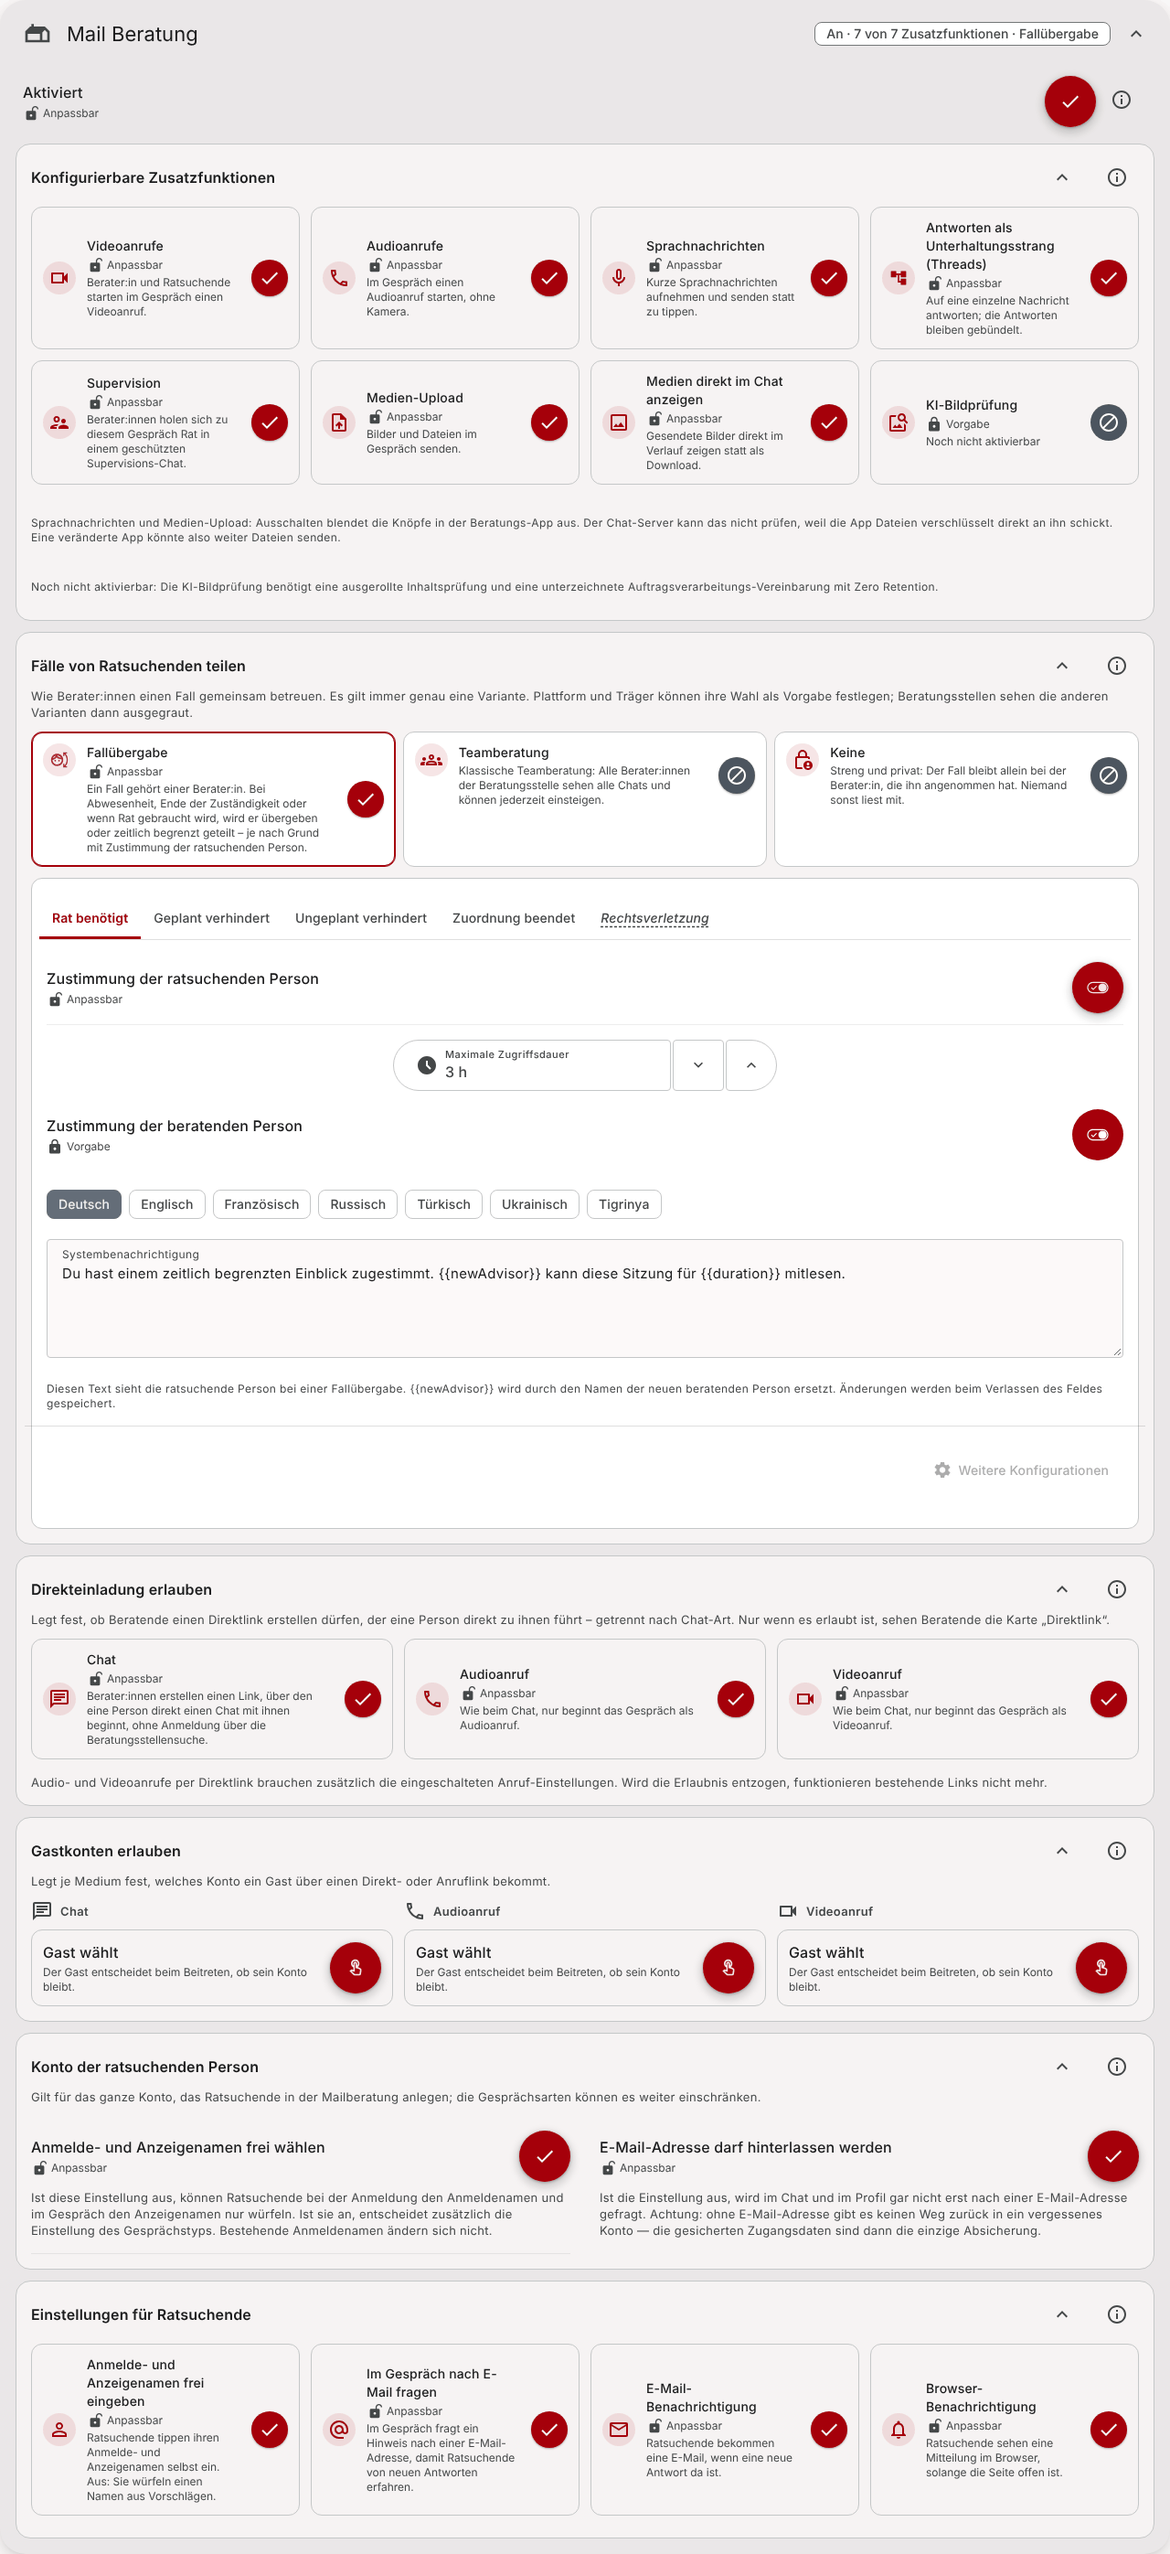
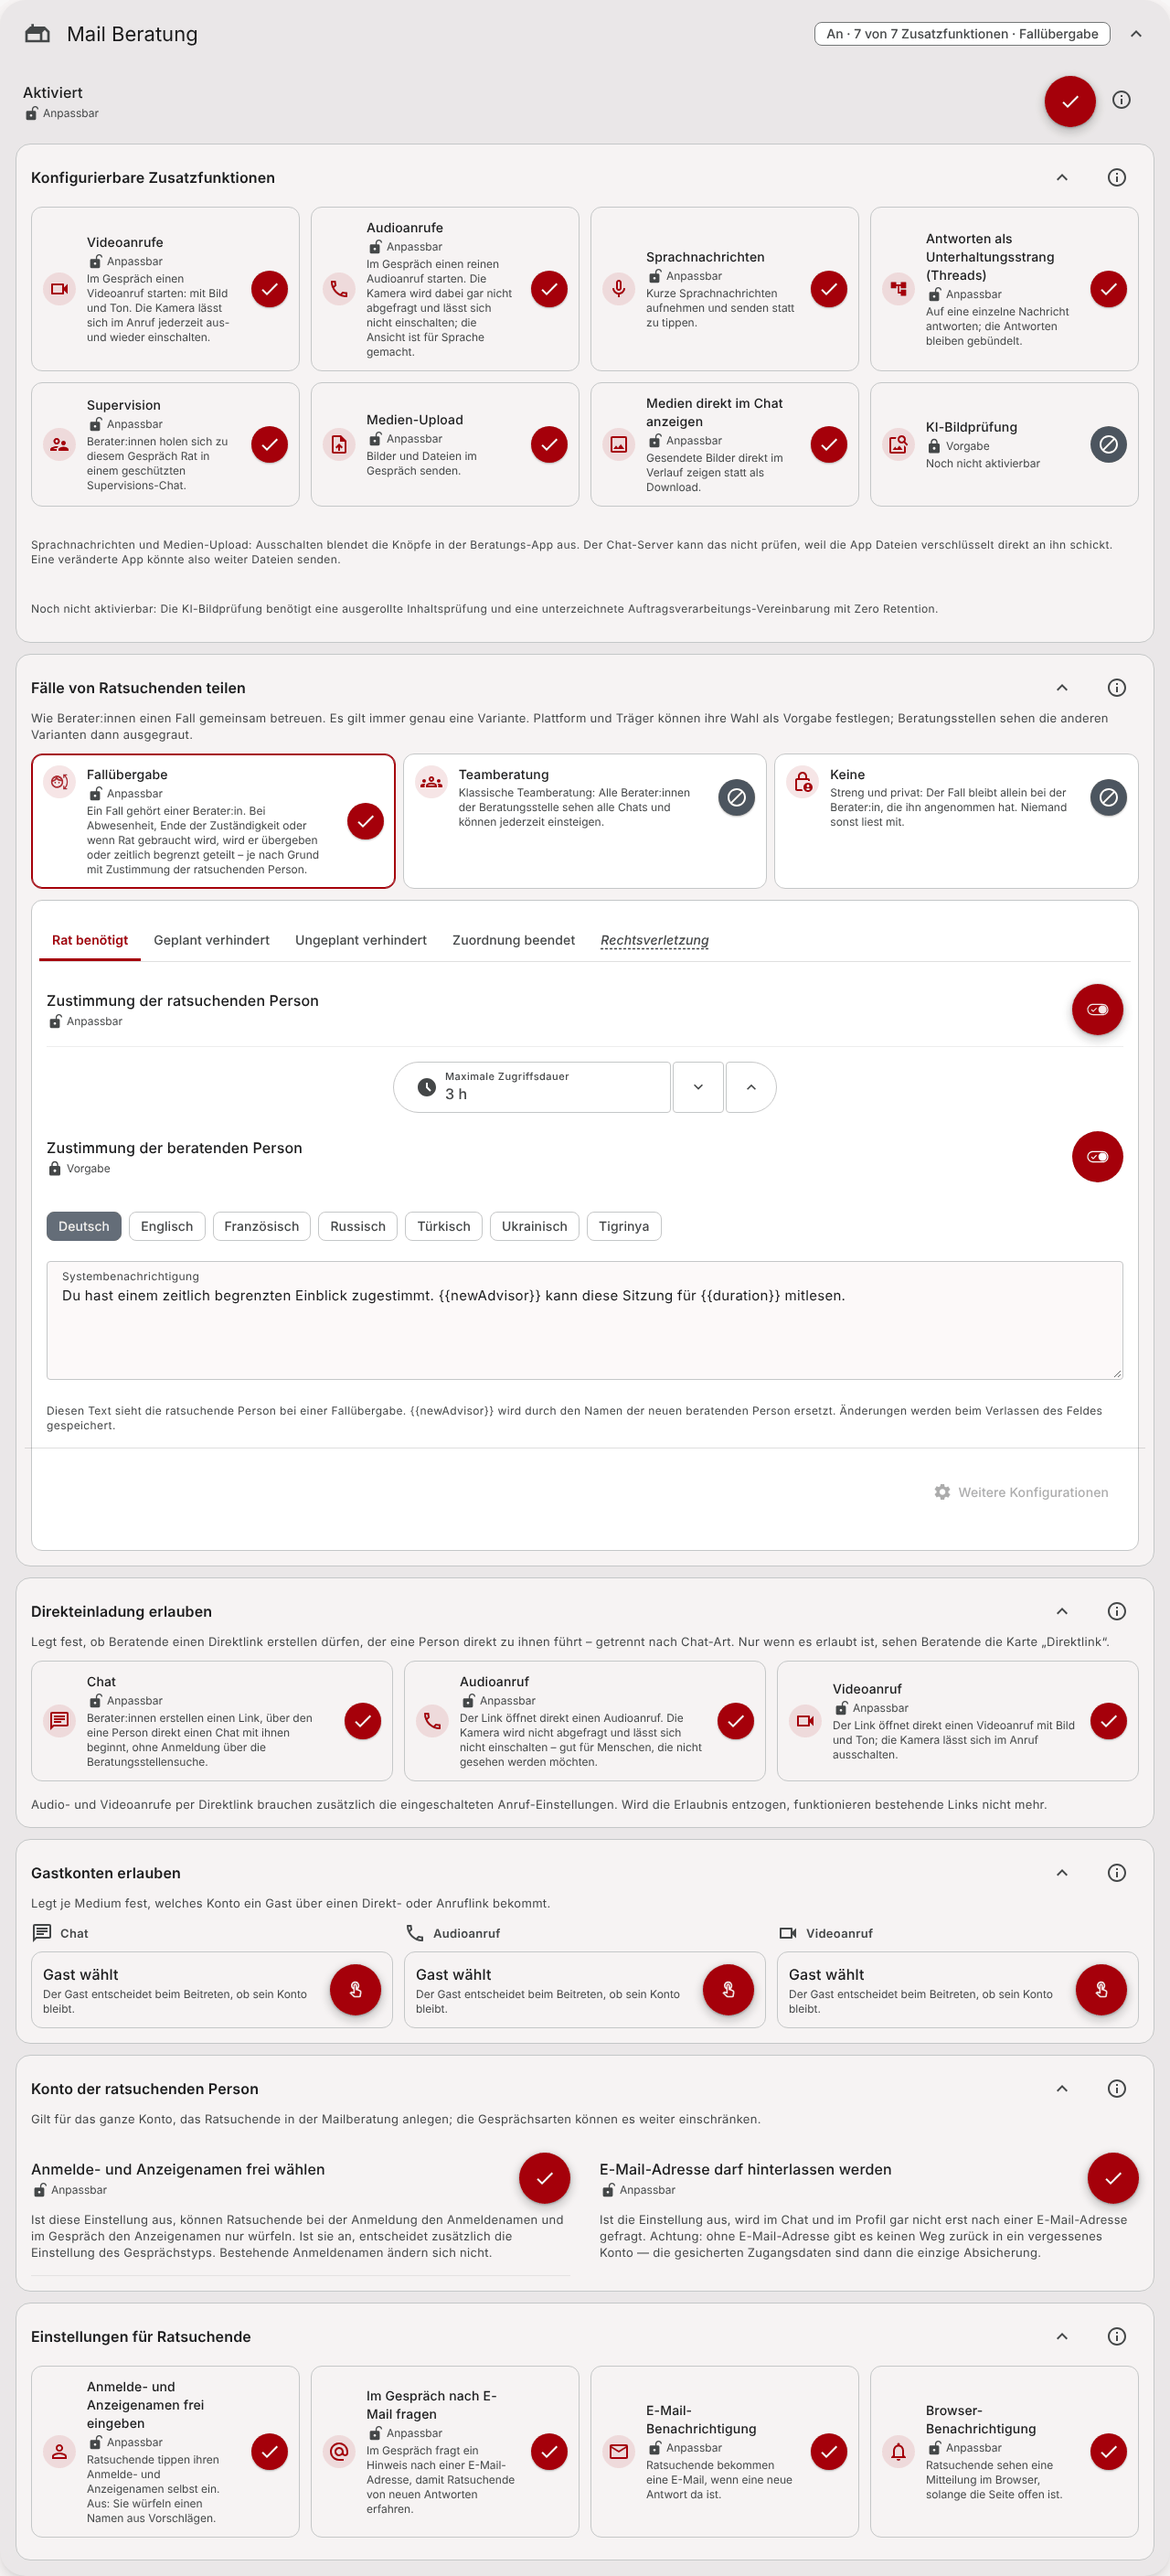
feat(permissions): precise audio/video texts; one story per level
Review round 4b (Frank, 2026-11-18):

- Audio calls and audio direct links say the camera is not even
  requested and cannot be switched on; video says picture and sound
- Stories for platform, Träger and Beratungsstelle show the same tiles,
  sections and descriptions on every level; screenshots per level and
  of the live-chat and circle tiles

Refs OpenResilienceInitiative/ORISO-Admin#1558

Claude-Session: https://claude.ai/code/session_01MYr5hAZ2mqrEFiMwYFseBN

diff --git a/src/components/Tenants/AppSettings/PermissionsSettings/CaseSharing.stories.tsx b/src/components/Tenants/AppSettings/PermissionsSettings/CaseSharing.stories.tsx
@@ -259,3 +259,55 @@ export const AfterRequiredByTraeger: Story = {
         );
     },
 };
+
+/*
+ * One page, three levels (Frank, 2026-11-18): platform, Träger and Beratungsstelle see the same
+ * tiles, sections and descriptions. Only what a level cannot set is missing or read-only: a centre
+ * has no value of its own for guest accounts and "who can be picked", and its channel switches are
+ * the Träger's.
+ */
+
+/** Platform: sets defaults and requirements for every Träger. */
+export const LevelPlatform: Story = {
+    args: {
+        policyLevel: 'platform',
+        caseSharing: { policy: { value: 'caseHandover', mode: 'SUGGESTED' } },
+    },
+    play: async ({ canvasElement }) => {
+        const mail = within(within(canvasElement).getByTestId('chat-type-card-oneOnOne'));
+        await expect(mail.getByRole('group', { name: CHOICE })).toBeVisible();
+        await expect(mail.getByRole('region', { name: /Gastkonten|guest accounts/i })).toBeVisible();
+    },
+};
+
+/** Träger: the platform suggests case handover; the Träger may change it and require it for its centres. */
+export const LevelTraeger: Story = {
+    args: {
+        policyLevel: 'tenant',
+        caseSharing: { policy: { value: 'caseHandover', mode: 'SUGGESTED', inherited: true } },
+    },
+    play: async ({ canvasElement }) => {
+        const mail = within(within(canvasElement).getByTestId('chat-type-card-oneOnOne'));
+        const choice = within(mail.getByRole('group', { name: CHOICE }));
+        await expect(
+            choice.getByRole('button', { name: /^(Fälle von Ratsuchenden teilen|Sharing cases of advice seekers): / }),
+        ).toBeEnabled();
+        await expect(mail.getByRole('region', { name: /Gastkonten|guest accounts/i })).toBeVisible();
+    },
+};
+
+/** Beratungsstelle: chooses while the Träger only suggests; channel switches are the Träger's. */
+export const LevelCentre: Story = {
+    args: {
+        policyLevel: 'agency',
+        channelsSetOnTraeger: true,
+        traegerChannelPolicies: {},
+        traegerDirectInvitePolicies: {},
+        caseSharing: { policy: { value: 'caseHandover', mode: 'SUGGESTED', inherited: true } },
+    },
+    play: async ({ canvasElement }) => {
+        const mail = within(within(canvasElement).getByTestId('chat-type-card-oneOnOne'));
+        await expect(mail.getByRole('button', { name: /^(Teamberatung|Team counselling): / })).toBeEnabled();
+        await expect(mail.getByRole('region', { name: /Direkteinladung|direct invitations/i })).toBeVisible();
+    },
+};
